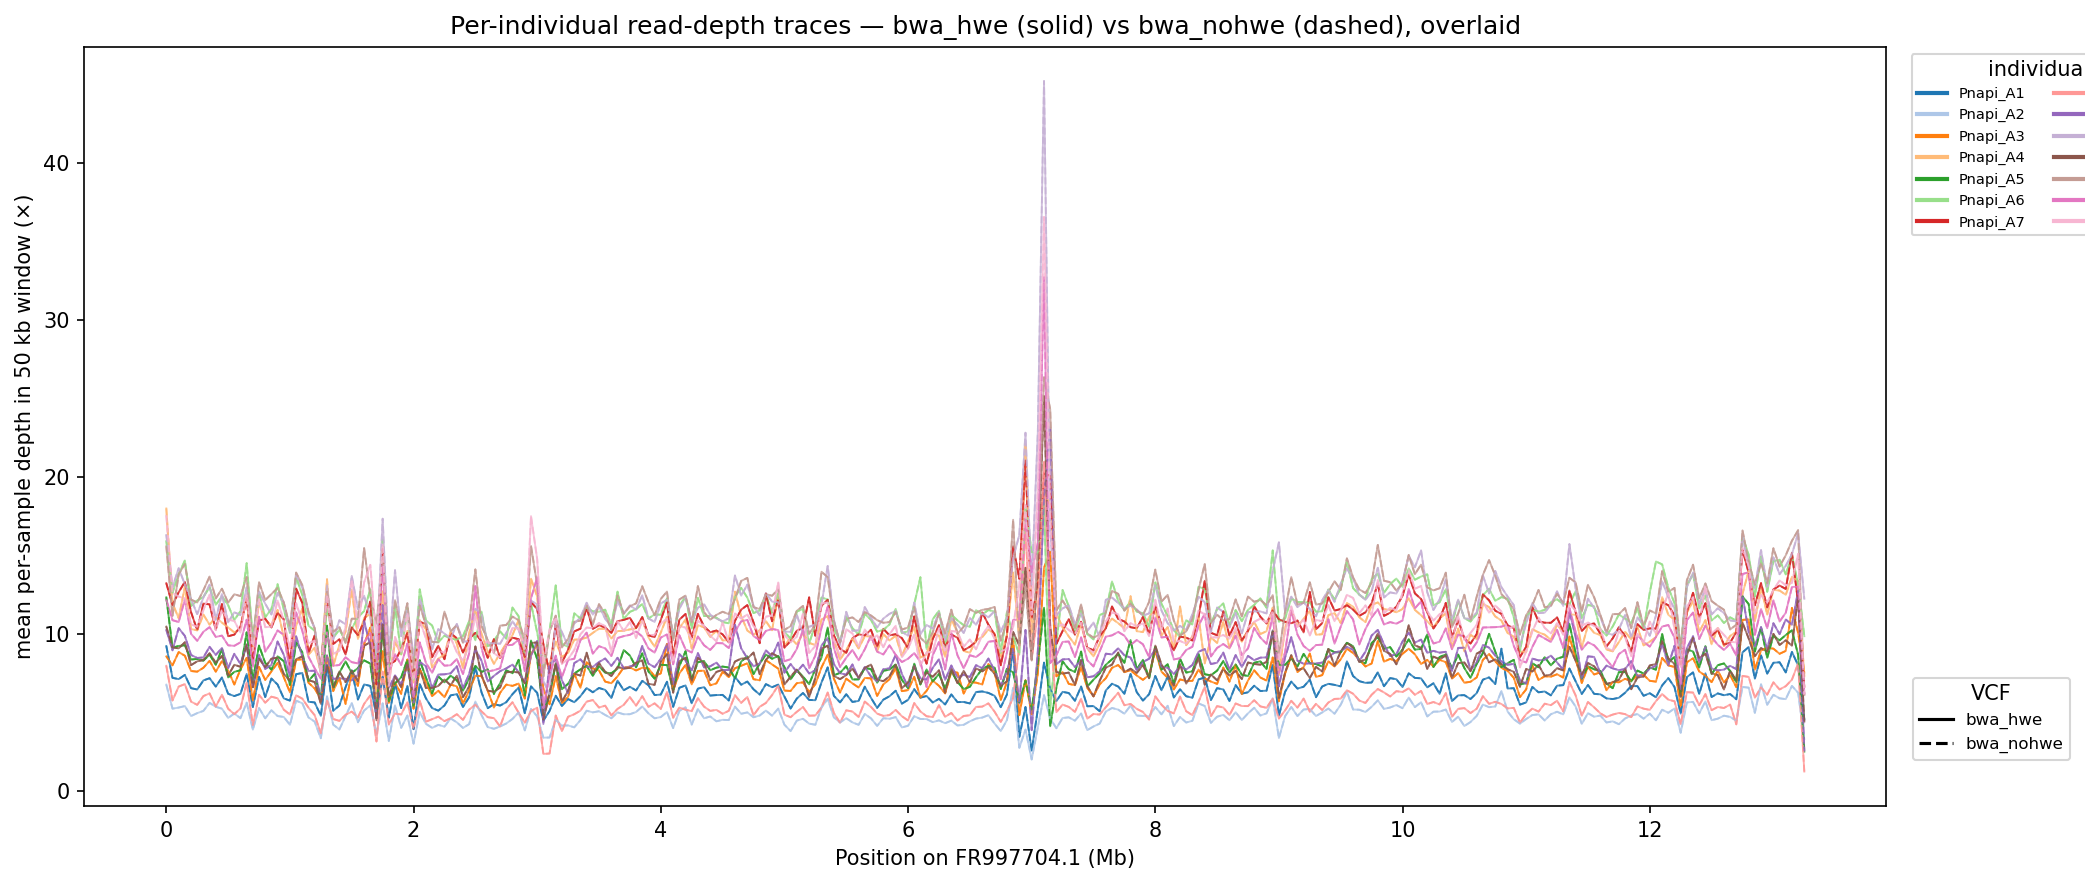
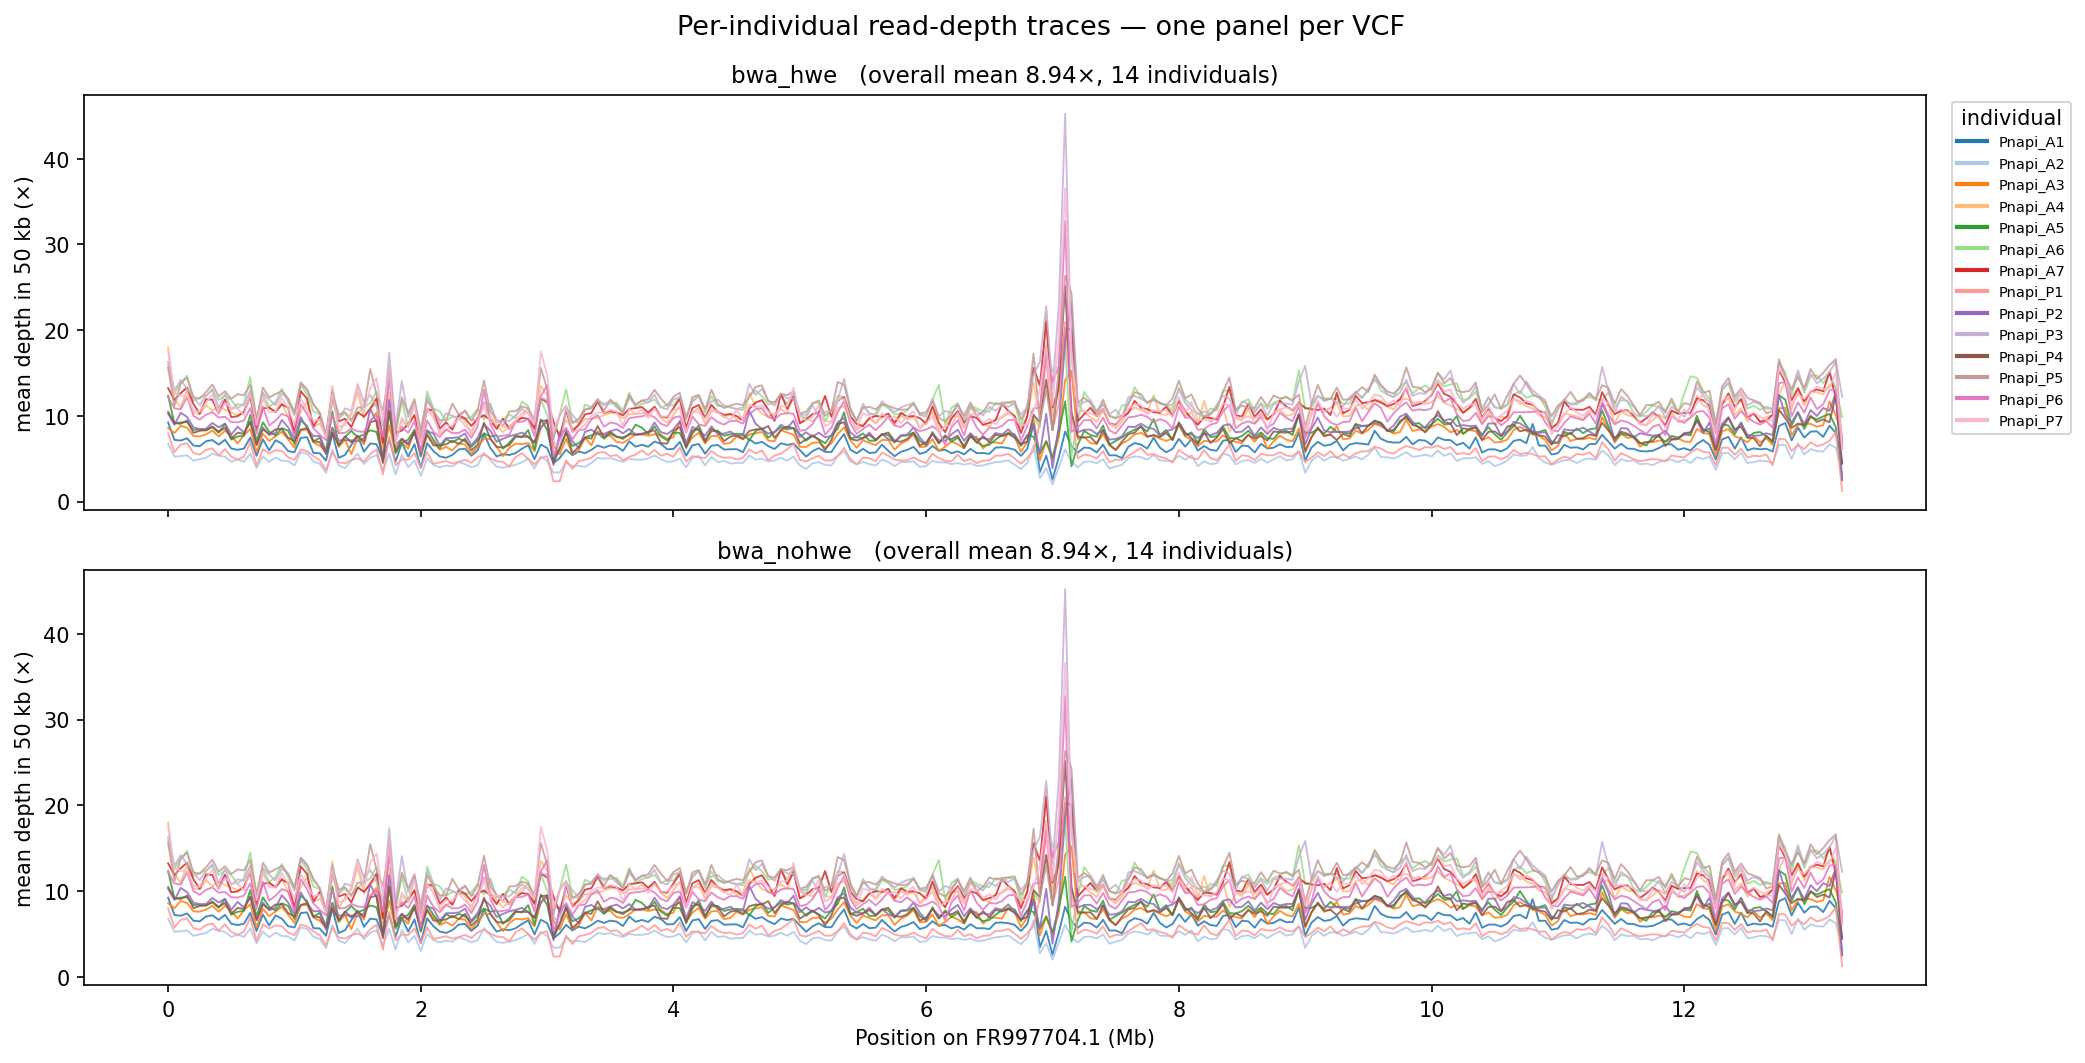
Separate per-individual depth into one panel per VCF (bwa_hwe / bwa_nohwe)
depth_per_individual.py now stacks one panel per VCF (shared axes) instead of
overlaying both, so the 14 individual traces are readable. Report 4h caption updated.

diff --git a/05_popgen/depth_per_individual.py b/05_popgen/depth_per_individual.py
@@ -1,8 +1,8 @@
 #!/usr/bin/env python3
 """
-Per-INDIVIDUAL read-depth traces (50 kb windows) for two VCFs, overlaid on one axes.
-Default: bwa_hwe and bwa_nohwe. Each of the 14 samples gets its own colour; the two
-VCFs are distinguished by linestyle (hwe = solid, nohwe = dashed).
+Per-INDIVIDUAL read-depth traces (50 kb windows), one PANEL per VCF (stacked, shared
+axes). Default: bwa_hwe (top) and bwa_nohwe (bottom). Each of the 14 samples gets its
+own colour, consistent across panels.
 
 Depth comes from per-sample FORMAT/DP:  bcftools query -f '%CHROM\\t%POS[\\t%DP]\\n'
 binned to 50 kb windows (mean DP per sample per window; missing '.' treated as 0).
@@ -21,10 +21,10 @@ BIN  = "/Users/stockholmbutterflylab/miniforge3/envs/vcfcompare/bin"
 VCFDIR = ROOT/"Pnapi_chr10_FR997704"; PLOTS = ROOT/"compare_out"/"plots"; PLOTS.mkdir(parents=True, exist_ok=True)
 WIN = 50000
 
-# (label, vcf path, linestyle)
+# (label, vcf path)  — one panel per VCF
 VCFS = [
-    ("bwa_hwe",   VCFDIR/"Pnapi_bwa_bcftools_hwe_FR997704.1.vcf.gz",   "-"),
-    ("bwa_nohwe", VCFDIR/"Pnapi_bwa_bcftools_nohwe_FR997704.1.vcf.gz", "--"),
+    ("bwa_hwe",   VCFDIR/"Pnapi_bwa_bcftools_hwe_FR997704.1.vcf.gz"),
+    ("bwa_nohwe", VCFDIR/"Pnapi_bwa_bcftools_nohwe_FR997704.1.vcf.gz"),
 ]
 
 def samples(vcf):
@@ -51,30 +51,26 @@ def main():
     cmap = plt.get_cmap("tab20")
     scol = {s: cmap(i % 20) for i,s in enumerate(samps)}
 
-    fig, ax = plt.subplots(figsize=(14, 6))
+    n = len(VCFS)
+    fig, axes = plt.subplots(n, 1, figsize=(14, 3.6*n), sharex=True, sharey=True)
+    axes = np.atleast_1d(axes)
     allrows = []
-    for label, vcf, ls in VCFS:
+    for ax,(label, vcf) in zip(axes, VCFS):
         df = windowed_per_sample(vcf, samps); df["vcf"] = label; allrows.append(df)
         for s in samps:
             d = df[df["sample"]==s].sort_values("window_pos_1")
-            ax.plot(d["window_pos_1"]/1e6, d["mean_depth"], color=scol[s], ls=ls,
-                    lw=0.9, alpha=0.8)
-        print(f"{label}: {df['sample'].nunique()} samples, "
-              f"overall mean DP {df['mean_depth'].mean():.2f}")
+            ax.plot(d["window_pos_1"]/1e6, d["mean_depth"], color=scol[s], lw=0.9, alpha=0.85)
+        ax.set_ylabel("mean depth in 50 kb (×)")
+        ax.set_title(f"{label}   (overall mean {df['mean_depth'].mean():.2f}×, 14 individuals)", fontsize=11)
+        print(f"{label}: {df['sample'].nunique()} samples, overall mean DP {df['mean_depth'].mean():.2f}")
     pd.concat(allrows, ignore_index=True).to_csv(PLOTS/"depth_per_individual.tsv", sep="\t", index=False)
 
-    ax.set_xlabel("Position on FR997704.1 (Mb)")
-    ax.set_ylabel("mean per-sample depth in 50 kb window (×)")
-    ax.set_title("Per-individual read-depth traces — bwa_hwe (solid) vs bwa_nohwe (dashed), overlaid")
-    # legend 1: individuals (colour)
-    leg1 = ax.legend(handles=[Line2D([0],[0], color=scol[s], lw=2, label=s) for s in samps],
-                     title="individual", ncol=2, fontsize=7, loc="upper left",
-                     bbox_to_anchor=(1.01, 1.0))
-    ax.add_artist(leg1)
-    # legend 2: VCF (linestyle)
-    ax.legend(handles=[Line2D([0],[0], color="k", ls="-",  lw=1.5, label="bwa_hwe"),
-                       Line2D([0],[0], color="k", ls="--", lw=1.5, label="bwa_nohwe")],
-              title="VCF", fontsize=8, loc="upper left", bbox_to_anchor=(1.01, 0.18))
+    axes[-1].set_xlabel("Position on FR997704.1 (Mb)")
+    fig.suptitle("Per-individual read-depth traces — one panel per VCF", fontsize=13)
+    # shared legend (individuals) to the right
+    axes[0].legend(handles=[Line2D([0],[0], color=scol[s], lw=2, label=s) for s in samps],
+                   title="individual", ncol=1, fontsize=7, loc="upper left",
+                   bbox_to_anchor=(1.01, 1.0))
     plt.tight_layout(); plt.savefig(PLOTS/"depth_per_individual.png", dpi=150, bbox_inches="tight"); plt.close()
     print("wrote depth_per_individual.png + .tsv")
 

diff --git a/lib/make_report.py b/lib/make_report.py
@@ -459,20 +459,19 @@ selection signal. <b>This is why depth belongs in the scan</b>: it is the first 
 believing an Fₛₜ outlier. A practical follow-up is to mask windows with depth &gt; ~2× the chromosome median
 (and unusually low-depth windows) before any selection scan.</div>""")
 
-add("<h4>Per-individual depth traces — bwa_hwe vs bwa_nohwe, overlaid</h4>")
+add("<h4>Per-individual depth traces — bwa_hwe and bwa_nohwe (one panel each)</h4>")
 add("""<p>The plots above average depth across the 14 samples. Here instead is the depth of <b>each
-individual</b> (its own colour) along the chromosome, for two VCFs overlaid in one panel — <b>bwa_hwe</b>
-(solid) and <b>bwa_nohwe</b> (dashed). Per-sample depth comes from <code>bcftools query -f
+individual</b> (its own colour) along the chromosome, with <b>bwa_hwe (top)</b> and <b>bwa_nohwe (bottom)</b>
+in separate, axis-aligned panels. Per-sample depth comes from <code>bcftools query -f
 '%CHROM\\t%POS[\\t%DP]\\n'</code> binned to 50 kb windows.</p>""")
 add(img("depth_per_individual.png","per-individual depth traces", maxw="100%"))
-add("""<div class="key"><b>What this adds:</b> (1) the solid (hwe) and dashed (nohwe) lines lie on top of
-each other for every individual — confirming, at the per-sample level, that the HWE filter does not change
-coverage; (2) individuals vary in background coverage (the band spans ~5–15×), useful for spotting a
-low-coverage sample that might drive missingness; (3) the ≈7 Mb spike is not uniform — it is driven by a
-subset of individuals reaching ~40×, exactly the per-sample signature of reads from a duplicated/collapsed
-region piling up in some samples, reinforcing that the Fₛₜ peak there (§4b) is a mapping artefact rather
-than biology. (Generated by <code>05_popgen/depth_per_individual.py</code>; change the two VCFs at the top
-to compare any pair.)</div>""")
+add("""<div class="key"><b>What this adds:</b> (1) the two panels are essentially identical — confirming, at
+the per-sample level, that the HWE filter does not change coverage; (2) individuals vary in background
+coverage (the band spans ~5–15×), useful for spotting a low-coverage sample that might drive missingness;
+(3) the ≈7 Mb spike is not uniform — it is driven by a subset of individuals reaching ~40×, exactly the
+per-sample signature of reads from a duplicated/collapsed region piling up in some samples, reinforcing that
+the Fₛₜ peak there (§4b) is a mapping artefact rather than biology. (Generated by
+<code>05_popgen/depth_per_individual.py</code>; change the VCF list at the top to compare any set.)</div>""")
 
 # ---------------- TIER 5: NORM vs RAW --------------------------------------
 add('<h2 id="t5">5. What normalisation actually did (raw vs normalised, head-to-head)</h2>')